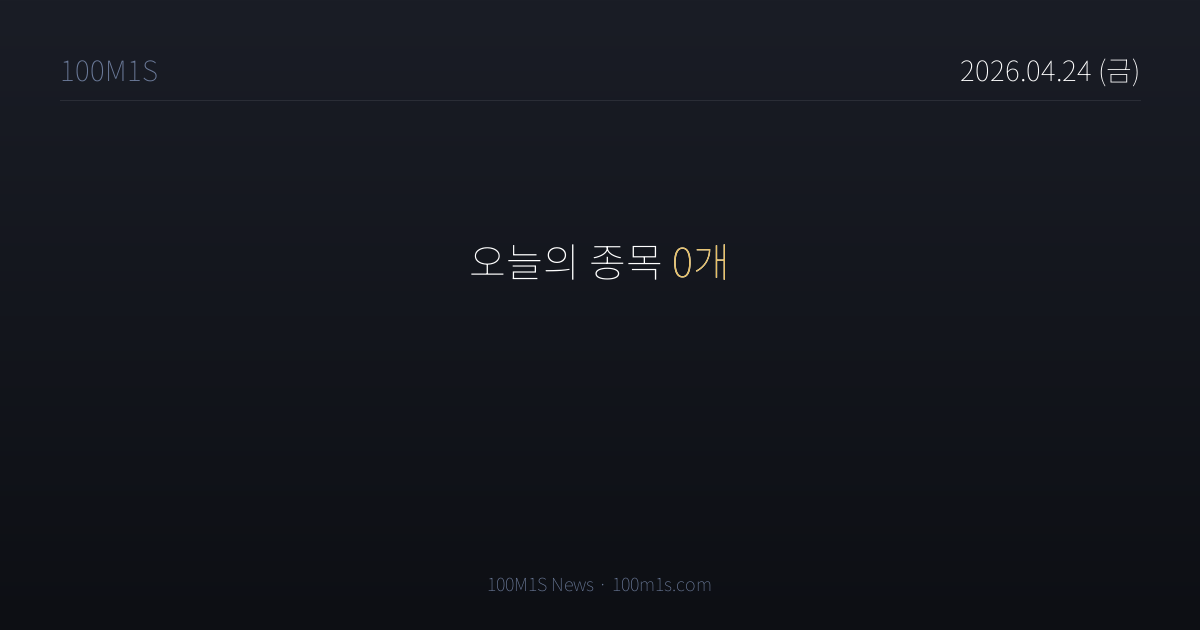
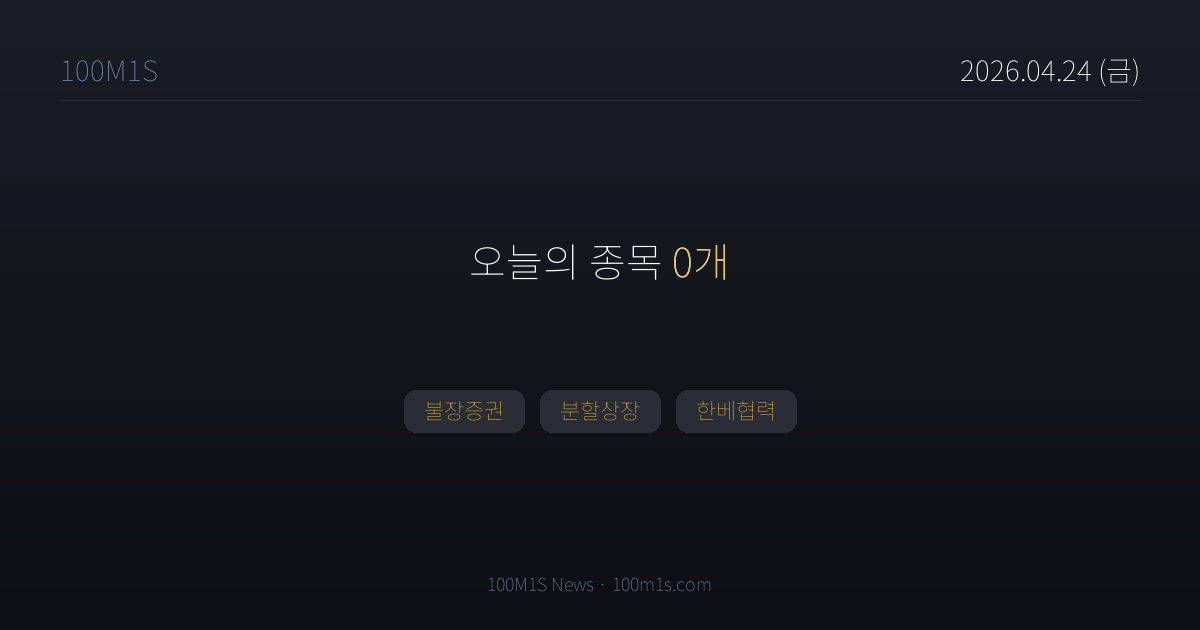
chore(news): 2026-04-24T02:10 pipeline

Changed region(s): [[0.3392, 0.6032, 0.6783, 0.6937]]

diff --git a/news/stock/2026-04-24.html b/news/stock/2026-04-24.html
@@ -4,7 +4,7 @@
 <meta charset="UTF-8">
 <title>4월 24일 (금) 뉴스 — 100M1S</title>
 <meta property="og:title" content="4월 24일 (금) · 종목 0개">
-<meta property="og:description" content="뉴스 요약">
+<meta property="og:description" content="불장증권, 분할상장, 한베협력">
 <meta property="og:image" content="https://100m1s.com/og/news/stock/2026-04-24.png">
 <meta property="og:image:width" content="1200">
 <meta property="og:image:height" content="630">
